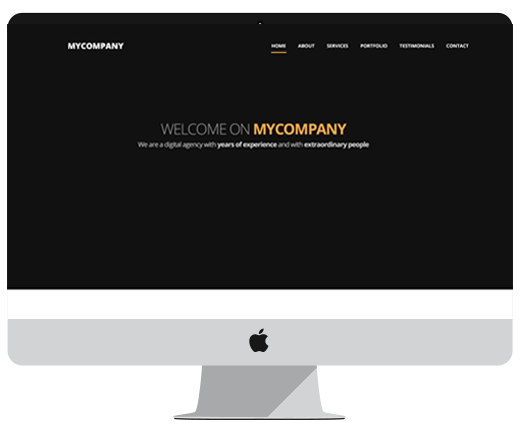
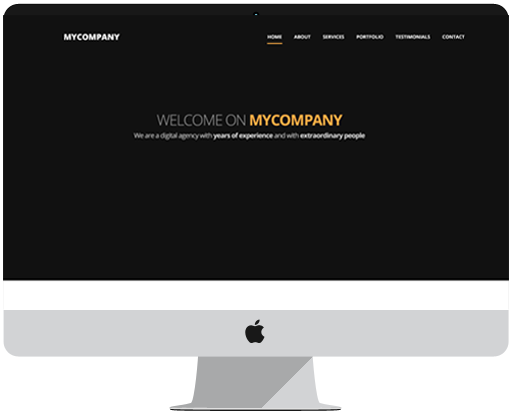
Change  styles about section

diff --git a/styles.css b/styles.css
@@ -5,7 +5,7 @@
 
 body {
 	font-family: 'Open Sans', sans-serif;
-	font-weight: 300;
+	font-weight: 400;
 	
 }
 
@@ -13,6 +13,7 @@ header {
 	width: 100%;
 	background: #000;
 	display: flex;
+	flex-wrap: wrap;
 }
 
 .header_logo {
@@ -102,23 +103,30 @@ main .main_welcome p {
 }
 
 main .main_about {
-	padding: 100px 0 100px 0;
+	padding: 95px 0 95px 0;
+}
+
+.about_left {
+	padding-left: 65px;
 }
 
 .about_right {
-	margin-left: 175px;
-	width: 500px;
+	margin-left: 165px;
+	width: 420px;
 }
 
 .about_right h1{
 	font-size: 34px;
 	padding-bottom: 20px;
 	font-weight: 400;
+	margin-top: 20px;
+	border-bottom: 3px solid #fcac45;
 }
 
 .about_right p {
-	margin: 30px 0 50px 0;
+	margin: 20px 0 45px 5px;
 	color: #999;
+	font-size: 17px;
 }
 
 .about_right ul {
@@ -127,7 +135,6 @@ main .main_about {
 }
 
 .about_right li {
-	padding-left: 25px;
 	margin-top: 10px;
 	color: #5a5a5a;
 }
@@ -148,14 +155,14 @@ p.text_bold {
 .main_team {
 	background: #000;
 	text-align: center;
-	padding: 100px 0 165px 0;
+	padding: 90px 0 160px 0;
 	color:#fff;
 }
 
 .main_team h1{
 	font-size: 44px;
 	text-transform: uppercase;
-	padding-bottom: 30px;
+	padding-bottom: 12px;
 }
 
 .line {
@@ -164,17 +171,21 @@ p.text_bold {
 	background: #fcac45;
 	position: relative;
 	left: 45.5%;
-	margin-bottom: 85px;
+	margin-bottom: 65px;
 }
 
 .team_cards {
 	display: flex;
+	justify-content: space-around;
+	padding-top: 20px;
 }
 
 .card {
-	margin: 0 40px;
 	font-weight: 500;
+	width: 240px;
 }
+
+
 
 .photo {
 	background: #d7d7d7;
@@ -185,7 +196,7 @@ p.text_bold {
 }
 
 .name {
-	font-size: 20px;
+    font-size: 20px;
 	margin-bottom: 7px;
 }
 
@@ -207,16 +218,17 @@ p.text_bold {
 
 .main_services h1 {
 	text-align: center;
-	padding: 100px 0 30px 0;
+	padding: 80px 0 20px 0;
 	text-transform: uppercase;
-	font-weight: 800;
+	font-size: 44px;
+	font-weight: 600;
 }
 
 .main_services h4 {
 	text-align: center;
 	padding: 30px 0 25px 0;
 	text-transform: uppercase;
-	font-weight: 800;
+	font-weight: 600;
 }
 
 .main_services p {

diff --git a/index.html b/index.html
@@ -42,7 +42,6 @@
 			</div>
 			<div class="about_right">
 				<h1>SOME WORDS <span class="text_bold">ABOUT US</span></h1>
-				<div class="line"></div>
 				<p>Lorem ipsum dolor sit amet, consectetur adipisicing elit. Doloribus ex quidem maiores ullam quis, at asperiores minus ad eaque maxime possimus.</p>
 				<ul>
 					<li><span class="text_bold">Mission</span> - <i>We deliver uniqueness and quality</i></li>
@@ -54,11 +53,11 @@
 		</div>
 	</section>
 
-	<div class="main_team">
+	<section class="main_team">
 		<div class="wrapper">
 			<h1>our team</h1>
 			<div class="line"></div>
-			<div class="team_cards">
+			<section class="team_cards">
 				<div class="card">
 					<div class="photo"></div>
 						<h4 class="name">Vlad Ivanov</h4>
@@ -83,13 +82,13 @@
 					<div class="card">
 					<div class="photo"></div>
 						<h4 class="name">Max Belov</h4>
-						<p class="position">CEO</p>
+						<p class="position">SEO</p>
 						<p class="about_position">Do not seek to change what has come before. Seek to create that which has not.</p>
 					</div>
-				</div>
+				</section>
 			</div>
-	</div>
-	<div class="main_services">
+	</section>
+	<section class="main_services">
 		<div class="wrapper">
 			<h1>our services</h1>
 			<div class="line"></div>
@@ -120,7 +119,7 @@
 				</div>
 			</div>
 		</div>
-	</div>
+	</section>
 
 	<div class="main_clients">
 		<div class="wrapper">
